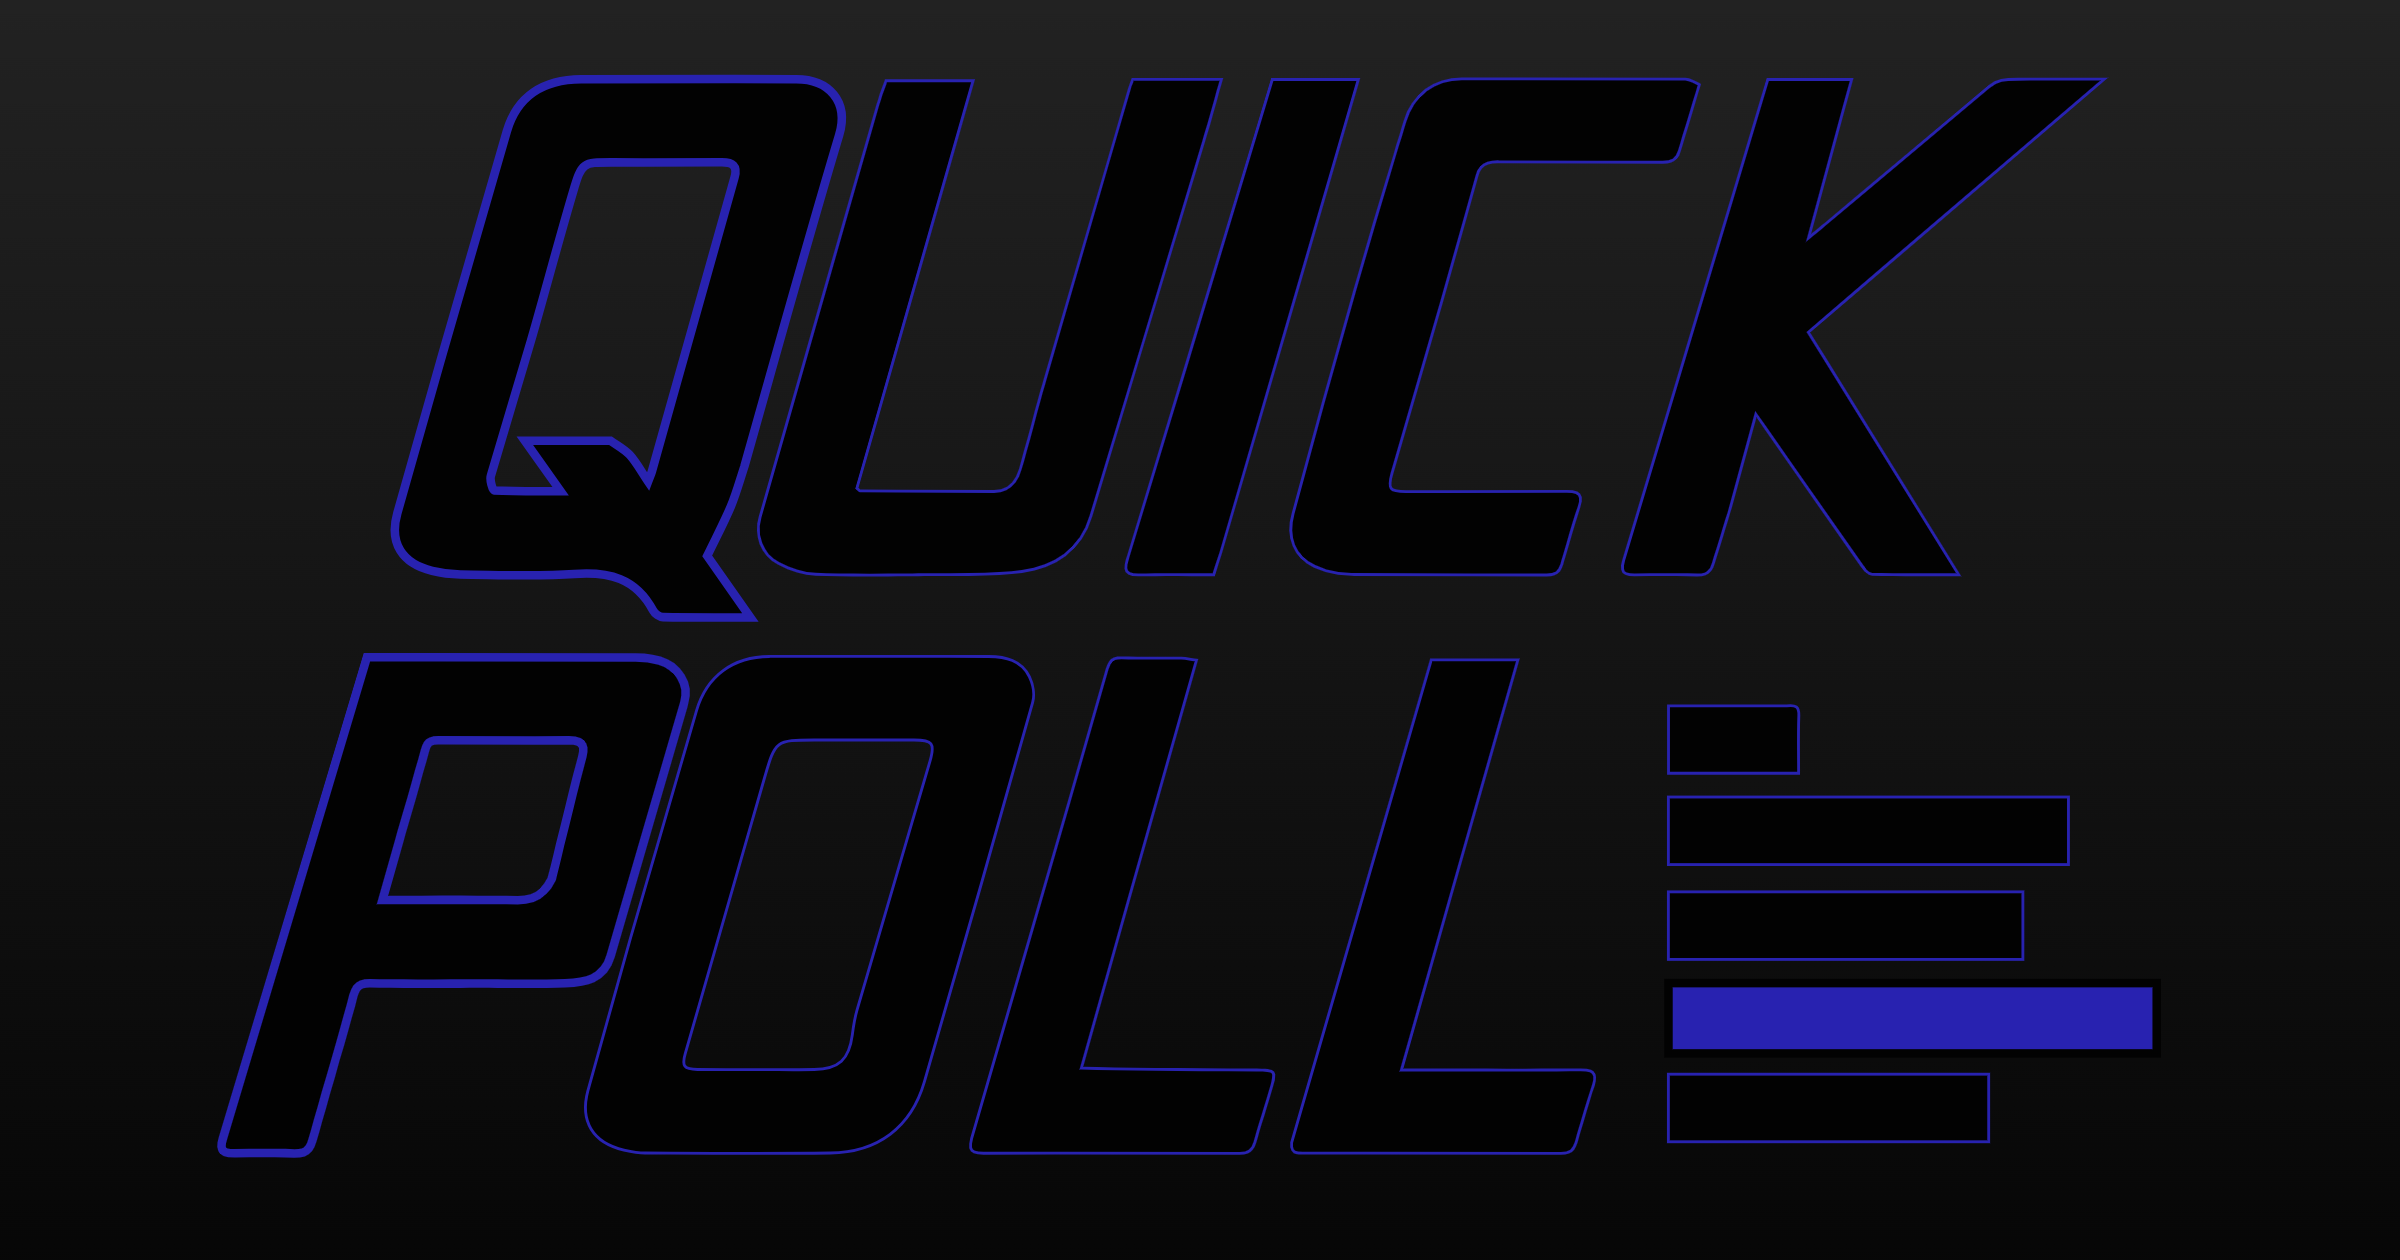
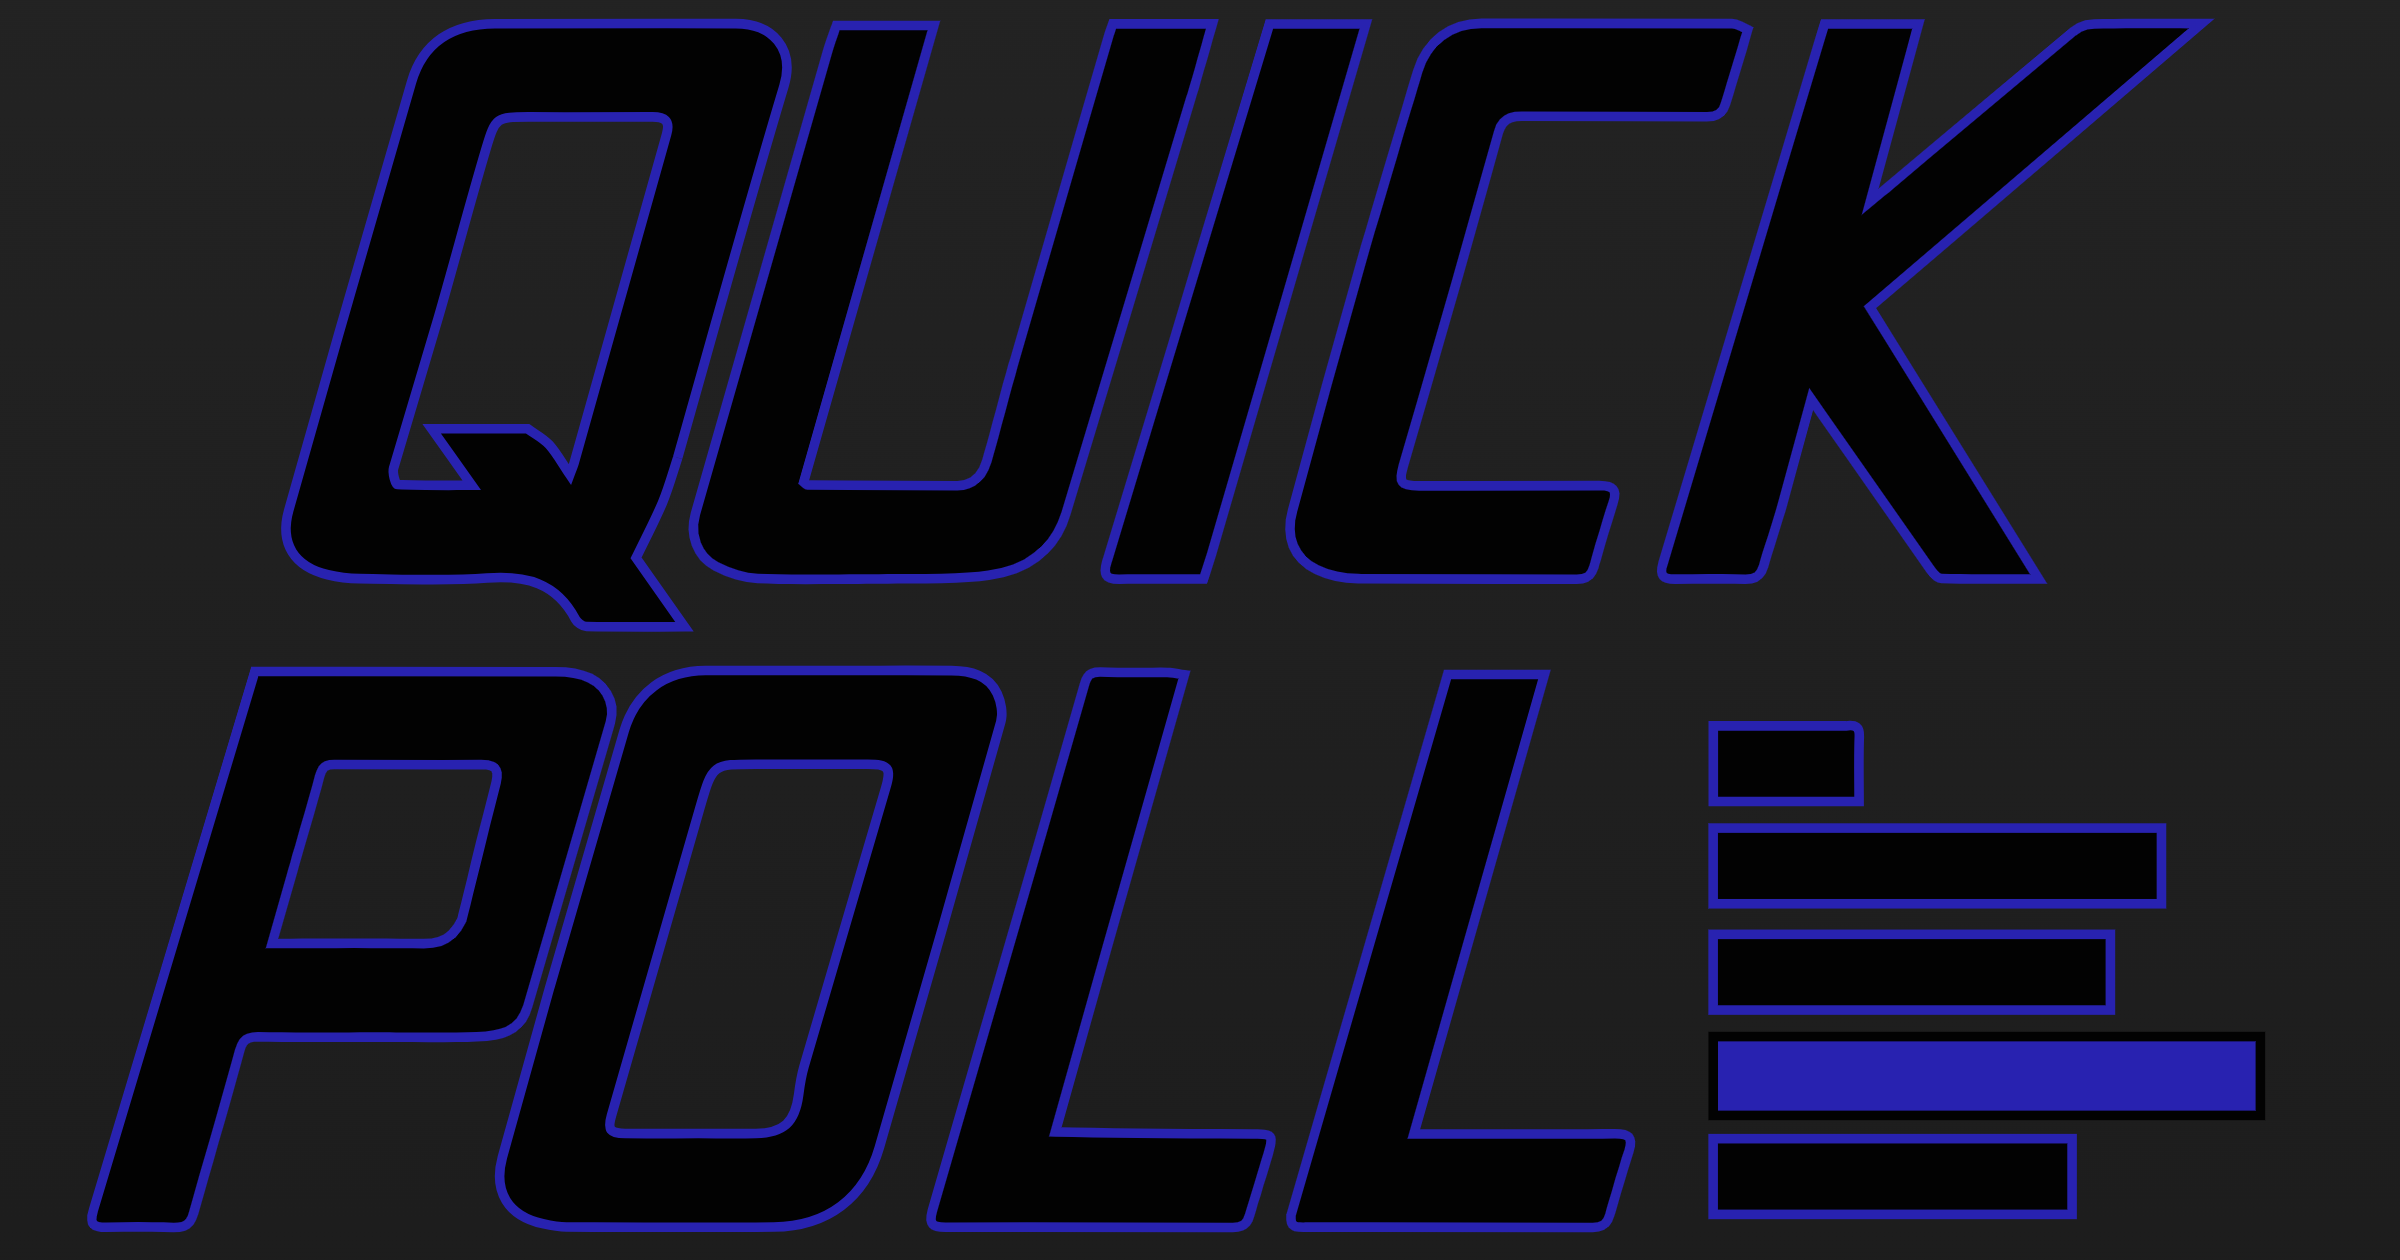
updated opengraph-image

diff --git a/src/components/Logos/Logo.tsx b/src/components/Logos/Logo.tsx
@@ -13,7 +13,7 @@ export default function Logo() {
         fill={baseColor}
         opacity="1.000000"
         stroke={strokeColor}
-        strokeWidth="3"
+        strokeWidth={3}
         d="
 M195.973572,148.984329 
 	C194.357300,153.941071 193.088394,158.616791 191.222672,163.040817 
@@ -51,6 +51,7 @@ z"
         fill={baseColor}
         opacity="1.000000"
         stroke={strokeColor}
+        strokeWidth={3}
         d="
 M257.000000,187.001465 
 	C244.672058,187.001465 232.828766,187.347336 221.024033,186.823792 
@@ -78,6 +79,7 @@ z"
         fill={baseColor}
         opacity="1.000000"
         stroke={strokeColor}
+        strokeWidth={3}
         d="
 M363.180908,179.265793 
 	C362.303741,182.017838 361.538177,184.382370 360.690125,187.001633 
@@ -94,6 +96,7 @@ z"
         fill={baseColor}
         opacity="1.000000"
         stroke={strokeColor}
+        strokeWidth={3}
         d="
 M531.128418,14.965652 
 	C528.821533,23.008434 526.414917,30.598486 524.148193,38.230068 
@@ -122,6 +125,7 @@ z"
         fill={baseColor}
         opacity="1.000000"
         stroke={strokeColor}
+        strokeWidth={3}
         d="
 M542.012451,57.008904 
 	C546.443115,42.153542 550.798035,27.694197 555.173706,13.166105 
@@ -183,6 +187,7 @@ z"
         fill={baseColor}
         opacity="1.000000"
         stroke={strokeColor}
+        strokeWidth={3}
         d="
 M155.902710,314.882935 
 	C163.712097,287.839539 171.359604,261.170502 179.206848,234.560394 
@@ -216,6 +221,7 @@ z"
         fill={baseColor}
         opacity="1.000000"
         stroke={strokeColor}
+        strokeWidth={3}
         d="
 M314.254150,360.163452 
 	C334.840149,360.659271 355.326477,360.737976 375.812775,360.811310 
@@ -236,6 +242,7 @@ z"
         fill={baseColor}
         opacity="1.000000"
         stroke={strokeColor}
+        strokeWidth={3}
         d="
 M388.075134,386.299011 
 	C404.505371,329.424286 420.855408,272.968689 437.096039,216.890762 
@@ -255,6 +262,7 @@ z"
         fill={baseColor}
         opacity="1.000000"
         stroke={strokeColor}
+        strokeWidth={3}
         d="
 M561.861694,233.002014 
 	C564.956238,232.608765 566.189270,233.292938 566.074402,236.364273 
@@ -268,6 +276,7 @@ z"
         fill={baseColor}
         opacity="1.000000"
         stroke={strokeColor}
+        strokeWidth={3}
         d="
 M548.000000,265.001984 
 	C585.804810,265.001984 623.109619,265.001984 660.706055,265.001984 
@@ -281,6 +290,7 @@ z"
         fill={baseColor}
         opacity="1.000000"
         stroke={strokeColor}
+        strokeWidth={3}
         d="
 M556.000000,321.998016 
 	C543.858032,321.998016 532.216064,321.998016 520.288696,321.998016 
@@ -308,6 +318,7 @@ z"
         fill={baseColor}
         opacity="1.000000"
         stroke={strokeColor}
+        strokeWidth={3}
         d="
 M563.000000,385.998016 
 	C548.525391,385.998016 534.550720,385.998016 520.289551,385.998016 

diff --git a/src/components/Logos/Icon.tsx b/src/components/Logos/Icon.tsx
@@ -7,6 +7,7 @@ export default function Logo() {
         fill={baseColor}
         opacity="1.000000"
         stroke={strokeColor}
+        strokeWidth={3}
         d="
 M561.861694,233.002014 
 	C564.956238,232.608765 566.189270,233.292938 566.074402,236.364273 
@@ -20,6 +21,7 @@ z"
         fill={baseColor}
         opacity="1.000000"
         stroke={strokeColor}
+        strokeWidth={3}
         d="
 M548.000000,265.001984 
 	C585.804810,265.001984 623.109619,265.001984 660.706055,265.001984 
@@ -33,6 +35,7 @@ z"
         fill={baseColor}
         opacity="1.000000"
         stroke={strokeColor}
+        strokeWidth={3}
         d="
 M556.000000,321.998016 
 	C543.858032,321.998016 532.216064,321.998016 520.288696,321.998016 
@@ -60,6 +63,7 @@ z"
         fill={baseColor}
         opacity="1.000000"
         stroke={strokeColor}
+        strokeWidth={3}
         d="
 M563.000000,385.998016 
 	C548.525391,385.998016 534.550720,385.998016 520.289551,385.998016 

diff --git a/src/app/page.tsx b/src/app/page.tsx
@@ -9,7 +9,7 @@ export default function Home() {
           <Logo></Logo>
         </header>
 
-        <p className="font-sans text-lg p-2">
+        {/* <p className="font-sans text-lg p-2">
           Quick Poll® is a free web app,that allows users to quickly create and
           share polls. No sign up required. However creating an account will
           give you access to a dashboard for better managing your polls
@@ -40,7 +40,7 @@ export default function Home() {
               Sign up
             </Link>
           </div>
-        </div>
+        </div> */}
       </section>
     </main>
   );

diff --git a/src/app/layout.tsx b/src/app/layout.tsx
@@ -14,7 +14,8 @@ export const metadata: Metadata = {
     default: "Quick Poll",
     template: "%s | Quick Poll",
   },
-  description: "Create and share polls!",
+  description:
+    "Quick Poll is the quick and easy way to create and share a poll. No sign in required.",
   twitter: {
     card: "summary_large_image",
   },

diff --git a/src/app/globals.css b/src/app/globals.css
@@ -12,7 +12,7 @@
   :root {
     --foreground: #ffffff;
     --background-start: #232323;
-    --background-end: #010101;
+    --background-end: #1c1c1c;
   }
 }
 hmtl,
